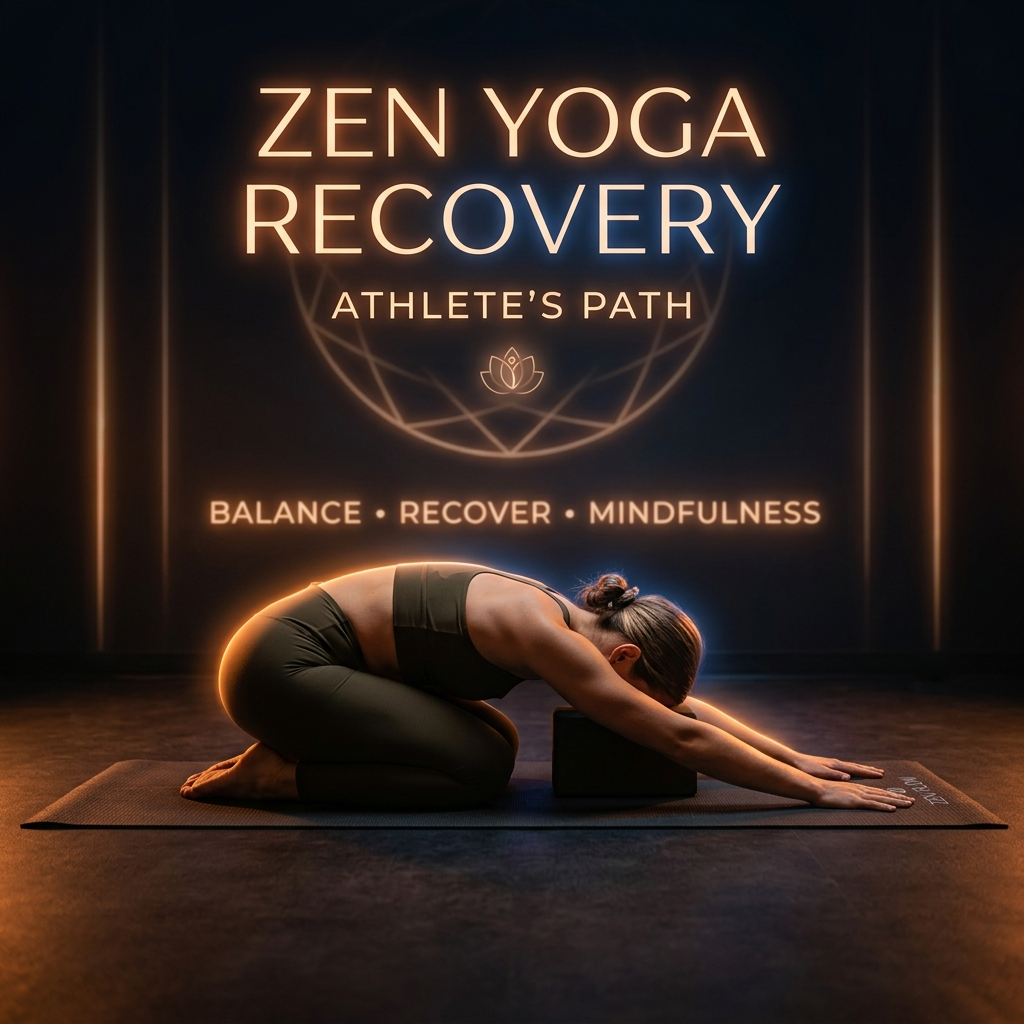
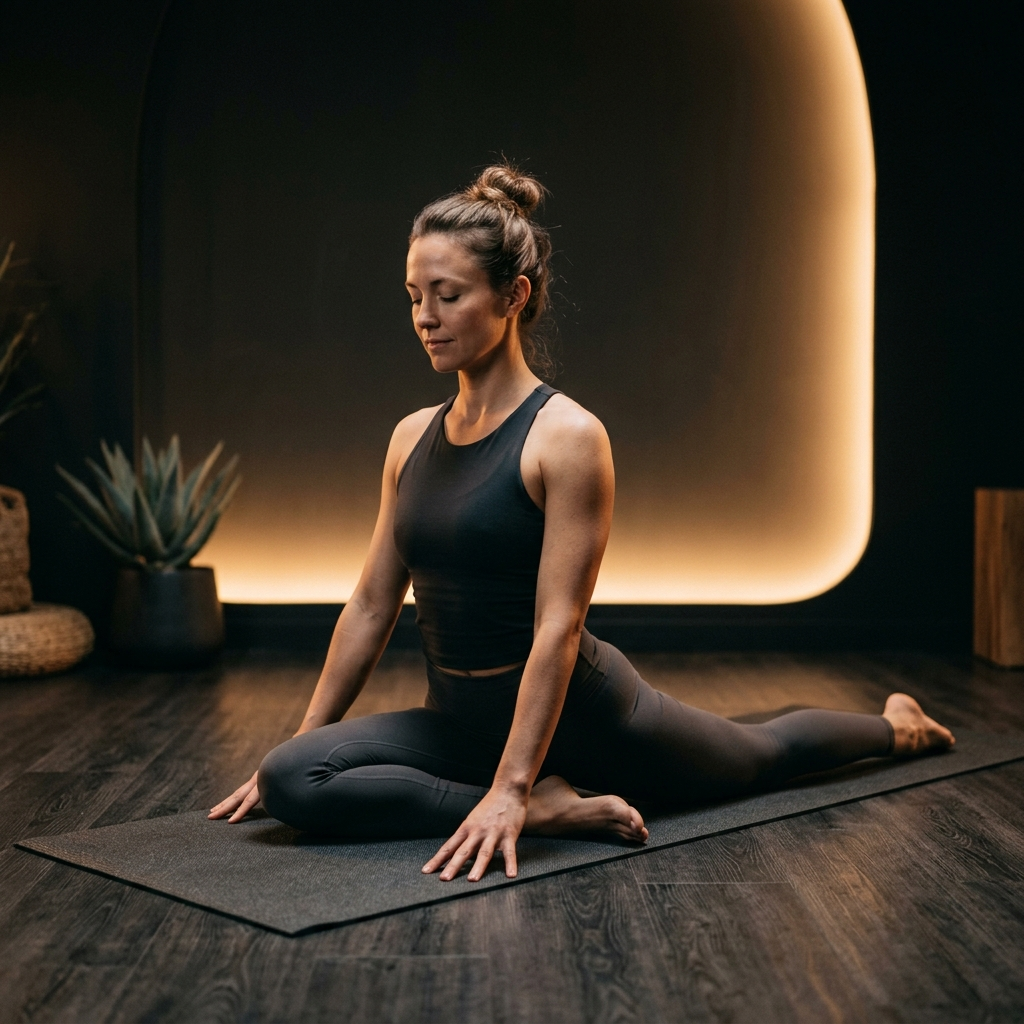
Implement Nutrition Zone home screen, dashboard entry points, and resolve yoga card text overlaps

diff --git a/src/App.jsx b/src/App.jsx
@@ -78,7 +78,29 @@ export default function App() {
   const [isOrbExpanded, setIsOrbExpanded] = useState(false);
   const [activeZoneModal, setActiveZoneModal] = useState(null);
   const [avatarLoadError, setAvatarLoadError] = useState(false);
+  const [nutritionDaily, setNutritionDaily] = useState({
+    calories_consumed: 1240,
+    calorie_target: 2000,
+    protein_g: 68,
+    carbs_g: 140,
+    fats_g: 32,
+    meals_logged: ["breakfast", "lunch"]
+  });
   const [recentFoodLogs, setRecentFoodLogs] = useState(["Salad", "Chicken Rice", "Protein Shake"]);
+  
+  const handleLogFood = (name, calories, protein = 25, carbs = 45, fats = 10) => {
+    setUser(prev => ({ ...prev, calToday: prev.calToday + calories }));
+    setNutritionDaily(prev => ({
+      ...prev,
+      calories_consumed: prev.calories_consumed + calories,
+      protein_g: prev.protein_g + protein,
+      carbs_g: prev.carbs_g + carbs,
+      fats_g: prev.fats_g + fats,
+      meals_logged: [...new Set([...prev.meals_logged, "snack"])]
+    }));
+    setRecentFoodLogs(prev => [...new Set([name, ...prev])].slice(0, 3));
+    triggerAlert(`Logged ${name} (${calories} kcal)!`);
+  };
   const [scanConfidence, setScanConfidence] = useState(null);
   const [scanError, setScanError] = useState(null);
   const [showManualForm, setShowManualForm] = useState(false);
@@ -469,7 +491,7 @@ export default function App() {
   useEffect(() => {
     if (expandedCarouselSlide !== null) return;
     const interval = setInterval(() => {
-      setCarouselIndex(prev => (prev + 1) % 4);
+      setCarouselIndex(prev => (prev + 1) % 5);
     }, 2000);
     return () => clearInterval(interval);
   }, [expandedCarouselSlide]);
@@ -477,7 +499,7 @@ export default function App() {
   const handleDragEnd = (event, info) => {
     const swipeThreshold = 50;
     if (info.offset.x < -swipeThreshold) {
-      setCarouselIndex(prev => Math.min(prev + 1, 3));
+      setCarouselIndex(prev => Math.min(prev + 1, 4));
     } else if (info.offset.x > swipeThreshold) {
       setCarouselIndex(prev => Math.max(prev - 1, 0));
     }
@@ -515,6 +537,32 @@ export default function App() {
           <div style={{ display: "flex", flexDirection: "column", height: "100%", justifyContent: "space-between" }}>
             <div style={{ display: "flex", justifyContent: "space-between", alignItems: "flex-start" }}>
               <div>
+                <div style={{ fontSize: 9, fontWeight: 700, color: C.text2, textTransform: "uppercase" }}>Calories & Macros</div>
+                <div style={{ fontSize: 18, fontWeight: 900, color: C.text1, marginTop: 2 }}>
+                  {nutritionDaily.calories_consumed} <span style={{ fontSize: 11, color: C.text2, fontWeight: 500 }}>/ {nutritionDaily.calorie_target} kcal</span>
+                </div>
+              </div>
+              <div style={{ width: 28, height: 28, borderRadius: "50%", backgroundColor: "var(--badge-primary-bg)", display: "flex", alignItems: "center", justifyContent: "center", border: "1px solid var(--badge-primary-border)" }}>
+                <ChefHat size={14} color="var(--color-primary)" />
+              </div>
+            </div>
+            <div style={{ display: "flex", alignItems: "center", gap: 10 }}>
+              <ProgressRing value={(nutritionDaily.calories_consumed / nutritionDaily.calorie_target) * 100} size={28} strokeWidth={3} showLabel={false} color="var(--color-primary)" />
+              <div style={{ display: "flex", gap: 6, fontSize: 8, fontWeight: 700, color: C.text2 }}>
+                <span>P: {nutritionDaily.protein_g}g</span>
+                <span>•</span>
+                <span>C: {nutritionDaily.carbs_g}g</span>
+                <span>•</span>
+                <span>F: {nutritionDaily.fats_g}g</span>
+              </div>
+            </div>
+          </div>
+        );
+      case 2:
+        return (
+          <div style={{ display: "flex", flexDirection: "column", height: "100%", justifyContent: "space-between" }}>
+            <div style={{ display: "flex", justifyContent: "space-between", alignItems: "flex-start" }}>
+              <div>
                 <div style={{ fontSize: 9, fontWeight: 700, color: C.text2, textTransform: "uppercase" }}>Water Intake</div>
                 <div style={{ fontSize: 22, fontWeight: 900, color: C.text1, marginTop: 2 }}>{user.waterToday}L <span style={{ fontSize: 12, color: C.text2, fontWeight: 500 }}>/ {user.waterGoal}L</span></div>
               </div>
@@ -540,7 +588,7 @@ export default function App() {
             </div>
           </div>
         );
-      case 2:
+      case 3:
         return (
           <div style={{ display: "flex", flexDirection: "column", height: "100%", justifyContent: "space-between" }}>
             <div style={{ display: "flex", justifyContent: "space-between", alignItems: "flex-start" }}>
@@ -567,7 +615,7 @@ export default function App() {
             </div>
           </div>
         );
-      case 3:
+      case 4:
         return (
           <div style={{ display: "flex", flexDirection: "column", height: "100%", justifyContent: "space-between" }}>
             <div style={{ display: "flex", justifyContent: "space-between", alignItems: "flex-start" }}>
@@ -1456,7 +1504,7 @@ export default function App() {
                         flex: 1, 
                         position: "relative", 
                         overflow: "hidden", 
-                        height: "100%", 
+                        minHeight: 85,
                         display: "flex", 
                         flexDirection: "column", 
                         justifyContent: "space-between",
@@ -1490,6 +1538,35 @@ export default function App() {
                         </div>
                       </div>
                     </Card>
+
+                    {/* Nutrition Card */}
+                    <Card 
+                      onClick={() => setActiveOverlay("nutrition")} 
+                      padding="12px" 
+                      style={{ 
+                        margin: 0, 
+                        flex: 1, 
+                        display: "flex", 
+                        flexDirection: "column", 
+                        justifyContent: "space-between",
+                        minHeight: 85,
+                        boxSizing: "border-box"
+                      }}
+                    >
+                      <div style={{ display: "flex", alignItems: "center", gap: 6 }}>
+                        <IconBadge icon={<ChefHat size={12} />} tone="secondary" size={20} />
+                        <div>
+                          <div style={{ fontSize: 11, fontWeight: 700, color: C.text1 }}>Nutrition</div>
+                          <div style={{ fontSize: 8, color: "var(--color-secondary)", fontWeight: 700, marginTop: 1 }}>
+                            {nutritionDaily.meals_logged.length} MEALS LOGGED
+                          </div>
+                        </div>
+                      </div>
+                      <div style={{ display: "flex", justifyContent: "space-between", alignItems: "center", width: "100%", marginTop: 4 }}>
+                        <span style={{ fontSize: 9, color: C.text2 }}>Log today's meals</span>
+                        <Plus size={12} color="var(--color-secondary)" />
+                      </div>
+                    </Card>
                   </div>
                 </div>
 
@@ -1502,7 +1579,13 @@ export default function App() {
                     justifyContent: "space-between", height: 160, overflow: "hidden", 
                     position: "relative", cursor: "pointer", border: `1.5px solid ${C.border}` 
                   }}
-                  onClick={() => setExpandedCarouselSlide(carouselIndex === 0 ? 0 : carouselIndex + 1)}
+                  onClick={() => {
+                    if (carouselIndex === 1) {
+                      setActiveOverlay("nutrition_zone");
+                    } else {
+                      setExpandedCarouselSlide(carouselIndex === 0 ? 0 : carouselIndex);
+                    }
+                  }}
                 >
                   <div style={{ flex: 1, position: "relative" }}>
                     <AnimatePresence mode="wait">
@@ -1525,7 +1608,7 @@ export default function App() {
 
                   {/* Dot Indicators */}
                   <div style={{ display: "flex", justifyContent: "center", gap: 6, marginTop: 4 }}>
-                    {[0, 1, 2, 3].map((idx) => (
+                    {[0, 1, 2, 3, 4].map((idx) => (
                       <div 
                         key={idx}
                         onClick={(e) => {
@@ -2829,9 +2912,9 @@ export default function App() {
                                 onClick={() => {
                                   const name = manualFoodName.trim() || "Manual Log";
                                   const c = Math.round((parseInt(manualCalories) || 0) * foodMultiplier);
-                                  setUser(prev => ({ ...prev, calToday: prev.calToday + c }));
-                                  setRecentFoodLogs(prev => [...new Set([name, ...prev])].slice(0, 3));
-                                  triggerAlert(`Logged ${name} (${c} kcal)!`);
+                                  const p = Math.round((parseInt(manualProtein) || 0) * foodMultiplier);
+                                  const cb = Math.round((parseInt(manualCarbs) || 0) * foodMultiplier);
+                                  handleLogFood(name, c, p || 25, cb || 45, Math.round((p || 25) * 0.2) || 8);
                                   
                                   setManualFoodName("");
                                   setManualCalories("");
@@ -2924,9 +3007,10 @@ export default function App() {
                                 onClick={() => {
                                   const name = scannedFoodResult.name;
                                   const c = Math.round(scannedFoodResult.calories * foodMultiplier);
-                                  setUser(prev => ({ ...prev, calToday: prev.calToday + c }));
-                                  setRecentFoodLogs(prev => [...new Set([name, ...prev])].slice(0, 3));
-                                  triggerAlert(`Logged ${name} (${c} kcal)!`);
+                                  const p = Math.round((scannedFoodResult.protein || 20) * foodMultiplier);
+                                  const cb = Math.round((scannedFoodResult.carbs || 35) * foodMultiplier);
+                                  const f = Math.round((scannedFoodResult.fats || 8) * foodMultiplier);
+                                  handleLogFood(name, c, p, cb, f);
                                   
                                   setScannedFoodResult(null);
                                   setScanConfidence(null);
@@ -3455,6 +3539,186 @@ export default function App() {
                     </motion.div>
                   )}
                 </AnimatePresence>
+              </motion.div>
+            )}
+
+            {/* E2. NUTRITION ZONE HOME SCREEN OVERLAY */}
+            {activeOverlay === "nutrition_zone" && (
+              <motion.div
+                key="nutrition-zone-screen"
+                initial={{ opacity: 0, y: 960 }}
+                animate={{ opacity: 1, y: 0 }}
+                exit={{ opacity: 0, y: 960 }}
+                transition={{ type: "spring", damping: 28 }}
+                style={{
+                  position: "absolute", inset: 0, backgroundColor: C.appBg, zIndex: 1000,
+                  display: "flex", flexDirection: "column", boxSizing: "border-box",
+                  padding: "54px 20px 24px", transition: "background-color 0.3s",
+                  overflowY: "auto"
+                }}
+              >
+                {/* Header */}
+                <div style={{ display: "flex", justifyContent: "space-between", alignItems: "center", marginBottom: 20 }}>
+                  <div>
+                    <h1 className="header-title" style={{ margin: 0 }}>Nutrition Zone</h1>
+                    <span style={{ fontSize: 11, fontWeight: 700, color: C.text2 }}>Today, July 7, 2026</span>
+                  </div>
+                  <X 
+                    size={24} 
+                    color={C.text1} 
+                    style={{ cursor: "pointer" }} 
+                    onClick={() => setActiveOverlay(null)} 
+                  />
+                </div>
+
+                {/* 1. Summary Card (Momentum Ring + Target Stats) */}
+                <Card padding="20px" style={{ margin: "0 0 20px", display: "flex", gap: 18, alignItems: "center" }}>
+                  <div style={{ position: "relative", width: 80, height: 80, flexShrink: 0 }}>
+                    <ProgressRing 
+                      value={(nutritionDaily.calories_consumed / nutritionDaily.calorie_target) * 100} 
+                      size={80} 
+                      strokeWidth={8} 
+                      color="var(--color-primary)" 
+                      label={`${nutritionDaily.calories_consumed}`}
+                    />
+                  </div>
+                  <div style={{ flex: 1 }}>
+                    <span style={{ fontSize: 10, fontWeight: 800, color: C.text2, textTransform: "uppercase" }}>Calorie Progress</span>
+                    <div style={{ fontSize: 18, fontWeight: 900, color: C.text1, marginTop: 2 }}>
+                      {nutritionDaily.calories_consumed} <span style={{ fontSize: 12, color: C.text2, fontWeight: 500 }}>/ {nutritionDaily.calorie_target} kcal</span>
+                    </div>
+                    {/* Micro Macro Bars */}
+                    <div style={{ display: "flex", flexDirection: "column", gap: 6, marginTop: 8 }}>
+                      {/* Protein */}
+                      <div style={{ display: "flex", flexDirection: "column", gap: 2 }}>
+                        <div style={{ display: "flex", justifyContent: "space-between", fontSize: 9, fontWeight: 700 }}>
+                          <span style={{ color: C.text1 }}>Protein</span>
+                          <span style={{ color: C.text2 }}>{nutritionDaily.protein_g}g / 150g</span>
+                        </div>
+                        <div style={{ width: "100%", height: 4, backgroundColor: "rgba(255,255,255,0.05)", borderRadius: 2, overflow: "hidden" }}>
+                          <div style={{ width: `${Math.min((nutritionDaily.protein_g / 150) * 100, 100)}%`, height: "100%", backgroundColor: "var(--color-primary)" }} />
+                        </div>
+                      </div>
+                      {/* Carbs */}
+                      <div style={{ display: "flex", flexDirection: "column", gap: 2 }}>
+                        <div style={{ display: "flex", justifyContent: "space-between", fontSize: 9, fontWeight: 700 }}>
+                          <span style={{ color: C.text1 }}>Carbs</span>
+                          <span style={{ color: C.text2 }}>{nutritionDaily.carbs_g}g / 220g</span>
+                        </div>
+                        <div style={{ width: "100%", height: 4, backgroundColor: "rgba(255,255,255,0.05)", borderRadius: 2, overflow: "hidden" }}>
+                          <div style={{ width: `${Math.min((nutritionDaily.carbs_g / 220) * 100, 100)}%`, height: "100%", backgroundColor: "var(--color-secondary)" }} />
+                        </div>
+                      </div>
+                      {/* Fats */}
+                      <div style={{ display: "flex", flexDirection: "column", gap: 2 }}>
+                        <div style={{ display: "flex", justifyContent: "space-between", fontSize: 9, fontWeight: 700 }}>
+                          <span style={{ color: C.text1 }}>Fats</span>
+                          <span style={{ color: C.text2 }}>{nutritionDaily.fats_g}g / 70g</span>
+                        </div>
+                        <div style={{ width: "100%", height: 4, backgroundColor: "rgba(255,255,255,0.05)", borderRadius: 2, overflow: "hidden" }}>
+                          <div style={{ width: `${Math.min((nutritionDaily.fats_g / 70) * 100, 100)}%`, height: "100%", backgroundColor: C.text3 }} />
+                        </div>
+                      </div>
+                    </div>
+                  </div>
+                </Card>
+
+                {/* 2. Quick Actions Row */}
+                <div style={{ display: "flex", gap: 12, marginBottom: 20 }}>
+                  <Button 
+                    variant="primary" 
+                    onClick={() => {
+                      setNutritionTab("analyser");
+                      setActiveOverlay("nutrition");
+                    }}
+                    style={{ flex: 1, padding: 12, fontSize: 12, borderRadius: 12 }}
+                  >
+                    🔍 Scan Food
+                  </Button>
+                  <Button 
+                    variant="secondary" 
+                    onClick={() => {
+                      setNutritionTab("creator");
+                      setActiveOverlay("nutrition");
+                    }}
+                    style={{ flex: 1, padding: 12, fontSize: 12, borderRadius: 12 }}
+                  >
+                    🥬 Find Recipe
+                  </Button>
+                </div>
+
+                {/* 3. Today's Meals List */}
+                <h3 style={{ fontSize: 14, fontWeight: 800, color: C.text1, margin: "0 0 12px" }}>Today's Meals</h3>
+                <div style={{ display: "flex", flexDirection: "column", gap: 10, marginBottom: 24 }}>
+                  {[
+                    { type: "Breakfast", icon: "🍳", target: 450, logged: nutritionDaily.meals_logged.includes("breakfast") ? "Oatmeal & Banana" : null },
+                    { type: "Lunch", icon: "🥗", target: 700, logged: nutritionDaily.meals_logged.includes("lunch") ? "Chicken Salad & Rice" : null },
+                    { type: "Dinner", icon: "🥩", target: 600, logged: nutritionDaily.meals_logged.includes("dinner") ? "Salmon & Sweet Potato" : null },
+                    { type: "Snacks", icon: "🍎", target: 250, logged: nutritionDaily.meals_logged.includes("snack") ? "Greek Yogurt & Protein Shake" : null }
+                  ].map((meal, idx) => (
+                    <Card 
+                      key={idx} 
+                      onClick={() => {
+                        setNutritionTab("analyser");
+                        setActiveOverlay("nutrition");
+                      }}
+                      padding="12px 14px"
+                      style={{ margin: 0, display: "flex", alignItems: "center", justifyContent: "space-between" }}
+                    >
+                      <div style={{ display: "flex", alignItems: "center", gap: 10 }}>
+                        <span style={{ fontSize: 18 }}>{meal.icon}</span>
+                        <div>
+                          <div style={{ fontSize: 12, fontWeight: 700, color: C.text1 }}>{meal.type}</div>
+                          <div style={{ fontSize: 10, color: C.text2, marginTop: 2 }}>
+                            {meal.logged ? meal.logged : `Target: ${meal.target} kcal`}
+                          </div>
+                        </div>
+                      </div>
+                      {meal.logged ? (
+                        <span style={{ fontSize: 10, color: "var(--color-primary)", fontWeight: 800 }}>LOGGED</span>
+                      ) : (
+                        <Plus size={14} color="var(--color-secondary)" />
+                      )}
+                    </Card>
+                  ))}
+                </div>
+
+                {/* 4. Frequently Logged Section */}
+                <h3 style={{ fontSize: 14, fontWeight: 800, color: C.text1, margin: "0 0 12px" }}>Frequently Logged</h3>
+                <div style={{ display: "flex", gap: 8, overflowX: "auto", paddingBottom: 10, scrollbarWidth: "none" }}>
+                  {[
+                    { name: "Salad", cal: 150, p: 5, c: 20, f: 4, icon: "🥗" },
+                    { name: "Chicken Rice", cal: 650, p: 45, c: 75, f: 12, icon: "🍚" },
+                    { name: "Protein Shake", cal: 220, p: 30, c: 8, f: 3, icon: "🥤" },
+                    { name: "Apple", cal: 80, p: 0, c: 22, f: 0, icon: "🍎" },
+                    { name: "Oatmeal", cal: 300, p: 10, c: 50, f: 5, icon: "🥣" },
+                    { name: "Greek Yogurt", cal: 150, p: 15, c: 10, f: 2, icon: "🍦" }
+                  ].map((food, i) => (
+                    <motion.div
+                      key={i}
+                      whileTap={{ scale: 0.95 }}
+                      onClick={() => handleLogFood(food.name, food.cal, food.p, food.c, food.f)}
+                      style={{
+                        backgroundColor: C.surface,
+                        border: `1.5px solid ${C.border}`,
+                        borderRadius: 14,
+                        padding: "10px 14px",
+                        display: "flex",
+                        alignItems: "center",
+                        gap: 8,
+                        whiteSpace: "nowrap",
+                        cursor: "pointer",
+                        boxShadow: "var(--shadow-button)"
+                      }}
+                    >
+                      <span style={{ fontSize: 14 }}>{food.icon}</span>
+                      <div style={{ display: "flex", flexDirection: "column" }}>
+                        <span style={{ fontSize: 11, fontWeight: 700, color: C.text1 }}>{food.name}</span>
+                        <span style={{ fontSize: 8, color: C.text2, marginTop: 1 }}>{food.cal} kcal</span>
+                      </div>
+                    </motion.div>
+                  ))}
+                </div>
               </motion.div>
             )}
 